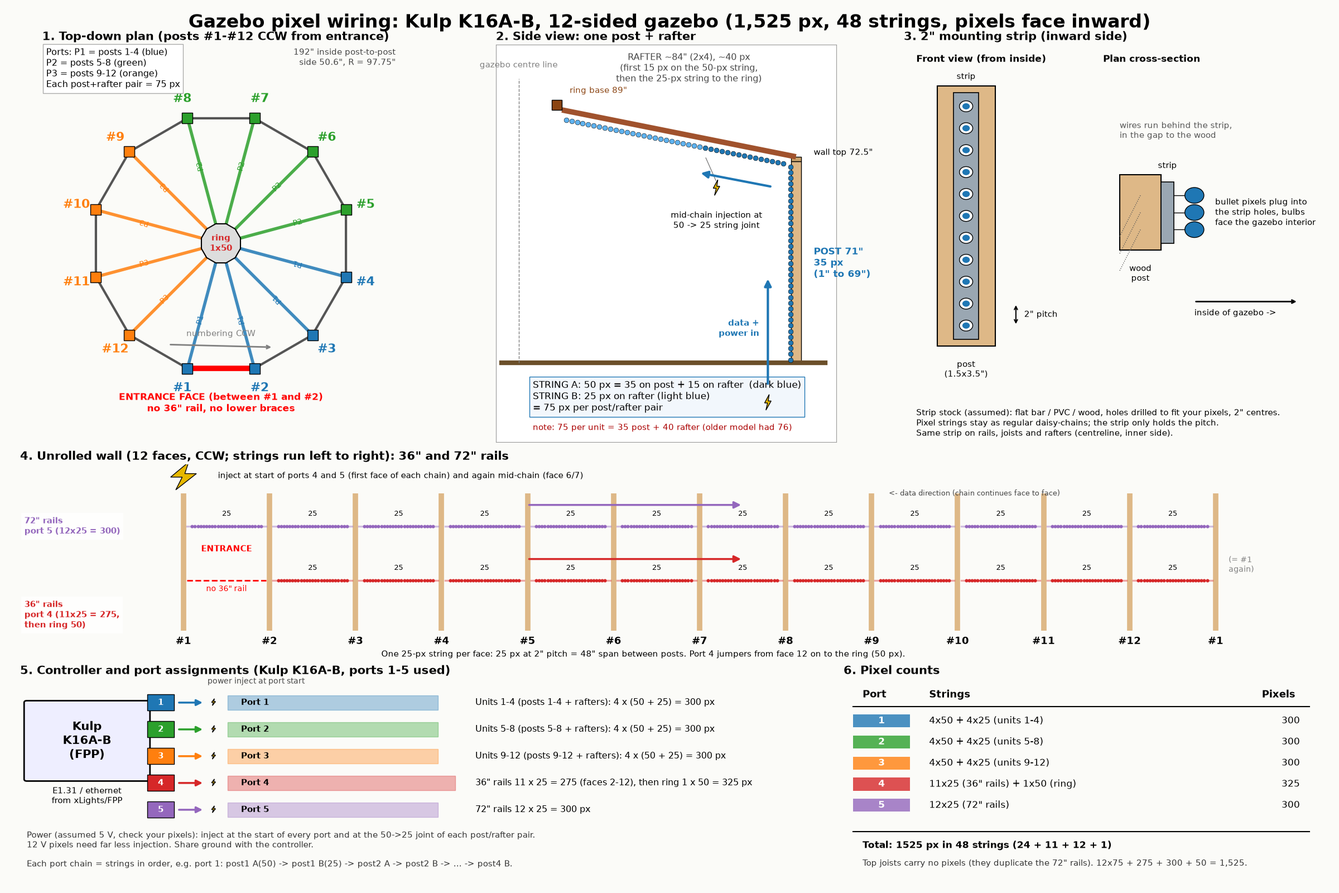
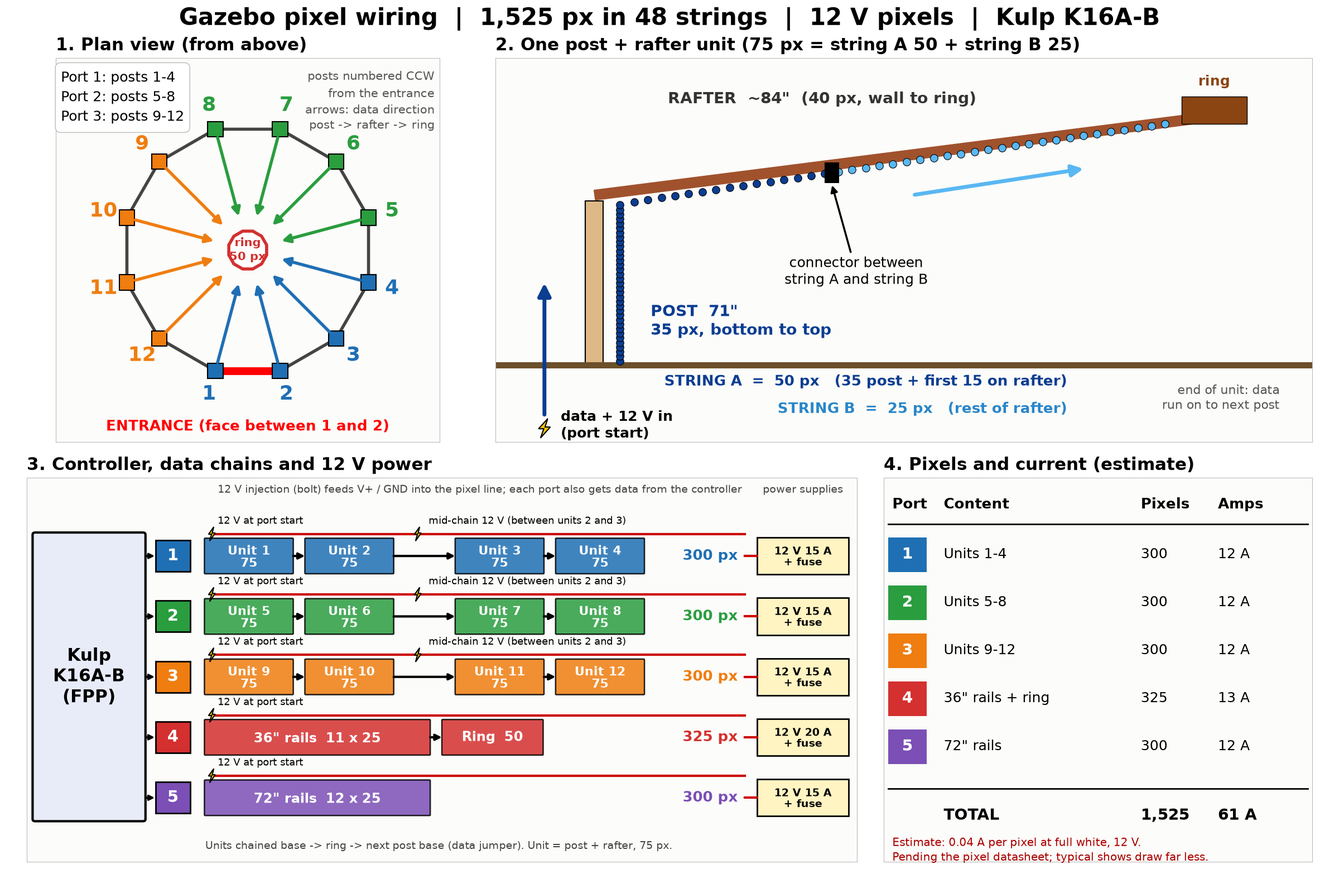
Redo wiring diagram (12 V, power plan); update wiring docs

diff --git a/scripts/wiring_diagram.py b/scripts/wiring_diagram.py
@@ -1,164 +1,132 @@
-import numpy as np, matplotlib
+import numpy as np, matplotlib, os
 matplotlib.use('Agg')
 import matplotlib.pyplot as plt
 from matplotlib.patches import Rectangle, FancyBboxPatch, Polygon, Circle, FancyArrowPatch
-PC={1:'#1f77b4',2:'#2ca02c',3:'#ff7f0e',4:'#d62728',5:'#9467bd',6:'#17becf'}
-BG='#fbfbf8'
+C={1:'#1f6fb4',2:'#2a9d3f',3:'#ef7d10',4:'#d3302f',5:'#7b4fb5'}
+BG='#ffffff'; FS=17
 fig=plt.figure(figsize=(24,16),dpi=100,facecolor=BG)
-def panel(rect,title):
-    ax=fig.add_axes(rect,facecolor='white');ax.set_title(title,fontsize=15,fontweight='bold',loc='left')
-    for s in ax.spines.values():s.set_color('#999')
+def panel(rect,title,frame=True):
+    ax=fig.add_axes(rect,facecolor='#fcfcfa');ax.set_title(title,fontsize=22,fontweight='bold',loc='left',pad=10)
+    ax.set_xticks([]);ax.set_yticks([])
+    for s in ax.spines.values():s.set_color('#bbb');s.set_visible(frame)
     return ax
-def arrow(ax,a,b,c='k',lw=2,ms=18):
-    ax.add_patch(FancyArrowPatch(a,b,arrowstyle='-|>',mutation_scale=ms,color=c,lw=lw,zorder=6))
-def bolt(ax,x,y,s=1.0,c='#e6b800'):
-    ax.add_patch(Polygon([[x+.2*s,y+1.2*s],[x-.5*s,y-.1*s],[x-.05*s,y-.1*s],[x-.3*s,y-1.2*s],[x+.5*s,y+.2*s],[x+.05*s,y+.2*s]],fc=c,ec='k',lw=1,zorder=8))
-fig.suptitle('Gazebo pixel wiring: Kulp K16A-B, 12-sided gazebo (1,525 px, 48 strings, pixels face inward)',fontsize=24,fontweight='bold',y=0.985)
+def arr(ax,a,b,c='k',lw=3.5,ms=28):
+    ax.add_patch(FancyArrowPatch(a,b,arrowstyle='-|>',mutation_scale=ms,color=c,lw=lw,zorder=7,shrinkA=0,shrinkB=0))
+def bolt(ax,x,y,s=1.0):
+    ax.add_patch(Polygon([[x+.25*s,y+1.1*s],[x-.45*s,y-.05*s],[x-.05*s,y-.05*s],[x-.3*s,y-1.1*s],[x+.45*s,y+.15*s],[x+.05*s,y+.15*s]],fc='#f5c400',ec='k',lw=1.5,zorder=9))
+fig.text(0.5,0.972,'Gazebo pixel wiring  |  1,525 px in 48 strings  |  12 V pixels  |  Kulp K16A-B',ha='center',fontsize=30,fontweight='bold')
 
-# ---------- plan ----------
-ax=panel([0.015,0.505,0.30,0.445],'1. Top-down plan (posts #1-#12 CCW from entrance)')
-ax.set_aspect('equal');ax.set_xlim(-135,135);ax.set_ylim(-150,150);ax.axis('off')
+# ===== 1. plan =====
+ax=panel([0.02,0.505,0.33,0.43],'1. Plan view (from above)')
+ax.set_aspect('equal');ax.set_xlim(-150,150);ax.set_ylim(-150,150)
 R=97.75;ang=np.radians(-105+30*np.arange(12));P=np.c_[R*np.cos(ang),R*np.sin(ang)]
-ax.add_patch(Polygon(P,fill=False,ec='#555',lw=3))
-ax.add_patch(Polygon(np.c_[15.27*np.cos(ang),15.27*np.sin(ang)],fc='#ddd',ec='k',lw=1.5,zorder=3))
-ax.text(0,0,'ring\n1x50',ha='center',va='center',fontsize=11,color=PC[4],fontweight='bold',zorder=5)
+ax.add_patch(Polygon(P,fill=False,ec='#444',lw=4,zorder=2))
+ax.plot([P[0][0],P[1][0]],[P[0][1],P[1][1]],color='red',lw=10,solid_capstyle='butt',zorder=3)
+rin=15.3
 for k in range(12):
-    port=1+k//4
-    ax.plot([P[k][0],15.27*np.cos(ang[k])],[P[k][1],15.27*np.sin(ang[k])],color=PC[port],lw=4,alpha=.85,zorder=2)
-    ax.add_patch(Rectangle((P[k][0]-4,P[k][1]-4),8,8,fc=PC[port],ec='k',zorder=5))
-    r=np.array([np.cos(ang[k]),np.sin(ang[k])])
-    ax.text(*(r*113),f'#{k+1}',ha='center',va='center',fontsize=16,fontweight='bold',color=PC[port])
-    ax.text(*(r*60),f'P{port}',ha='center',va='center',fontsize=10,color=PC[port],rotation=np.degrees(ang[k])%180-(90 if False else 0))
-# entrance
-ax.plot([P[0][0],P[1][0]],[P[0][1],P[1][1]],color='red',lw=7,solid_capstyle='butt',zorder=4)
-ax.text(0,-112,'ENTRANCE FACE (between #1 and #2)\nno 36" rail, no lower braces',ha='center',va='top',fontsize=12,color='red',fontweight='bold')
-ax.annotate('',xy=(P[1][0]+14,P[1][1]+16),xytext=(P[0][0]-14,P[0][1]+18),arrowprops=dict(arrowstyle='->',color='gray',lw=2,connectionstyle='arc3,rad=-0.0'))
-ax.text(0,-70,'numbering CCW',ha='center',fontsize=11,color='gray')
-ax.text(-132,148,'Ports: P1 = posts 1-4 (blue)\nP2 = posts 5-8 (green)\nP3 = posts 9-12 (orange)\nEach post+rafter pair = 75 px',fontsize=11.5,va='top',bbox=dict(fc='white',ec='#aaa'))
-ax.text(132,148,'192" inside post-to-post\nside 50.6", R = 97.75"',fontsize=11,ha='right',va='top',color='#444')
+    port=1+k//4;r=np.array([np.cos(ang[k]),np.sin(ang[k])])
+    a=P[k]*0.93;b=r*(rin+12)
+    arr(ax,a,b,C[port],4,22)
+    ax.add_patch(Rectangle((P[k][0]-6,P[k][1]-6),12,12,fc=C[port],ec='k',lw=1.5,zorder=5))
+    ax.text(*(r*(R+19)),f'{k+1}',ha='center',va='center',fontsize=26,fontweight='bold',color=C[port])
+ax.add_patch(Polygon(np.c_[rin*np.cos(ang),rin*np.sin(ang)],fc='white',ec=C[4],lw=4,zorder=6))
+ax.text(0,0,'ring\n50 px',ha='center',va='center',fontsize=15,fontweight='bold',color=C[4],zorder=8)
+ax.text(0,-138,'ENTRANCE (face between 1 and 2)',ha='center',va='center',fontsize=19,color='red',fontweight='bold')
+ax.text(-146,142,'Port 1: posts 1-4\nPort 2: posts 5-8\nPort 3: posts 9-12',fontsize=18,va='top',linespacing=1.4,
+        bbox=dict(fc='white',ec='#bbb',boxstyle='round,pad=0.4'))
+for p,(x,y) in zip((1,2,3),((-139,125),(-139,108),(-139,91))):pass
+ax.text(146,142,'posts numbered CCW\nfrom the entrance\narrows: data direction\npost -> rafter -> ring',fontsize=15,va='top',ha='right',color='#555',linespacing=1.4)
 
-# ---------- elevation of one post + rafter ----------
-ax=panel([0.335,0.505,0.325,0.445],'2. Side view: one post + rafter')
-ax.set_xlim(-8,112);ax.set_ylim(-28,112);ax.set_aspect('equal');ax.set_xticks([]);ax.set_yticks([])
-ax.plot([-6,108],[0,0],color='#6b4f2a',lw=6)
-ax.add_patch(Rectangle((97.75-1.75,0),3.5,71,fc='#deb887',ec='k'))
-ax.add_patch(Rectangle((97.75-1.75,71),3.5,1.5,fc='#c9a26b',ec='k'))
-ax.plot([97.75,15.27],[72.5,89],color='#a0522d',lw=7,solid_capstyle='butt',zorder=1)
-ax.add_patch(Rectangle((11.65,89),3.62,3.5,fc='#8b4513',ec='k'))
-ax.plot([0,0],[0,100],'--',color='gray',lw=1);ax.text(0,104,'gazebo centre line',ha='center',fontsize=11,color='gray')
-# pixels (inward side)
-xp=97.75-1.9
-c1='#1f77b4';c2='#5fb3f0'
-zs=1+2*np.arange(35)
-ax.scatter([xp]*35,zs,s=40,c=c1,zorder=7,edgecolors='k',linewidths=.4)
-t=np.array([97.75,72.5])-np.array([97.75,72.5]);d=np.array([15.27-97.75,16.5]);L=np.linalg.norm(d);d/=L;nrm=np.array([-d[1],d[0]])  # normal pointing... down/in
-nrm=-nrm if nrm[1]>0 else nrm
-pts=[np.array([97.75,72.5])+d*(4+2*i)+nrm*3.2 for i in range(40)]
-pts=np.array(pts)
-ax.scatter(pts[:15,0],pts[:15,1],s=40,c=c1,zorder=7,edgecolors='k',linewidths=.4)
-ax.scatter(pts[15:,0],pts[15:,1],s=40,c=c2,zorder=7,edgecolors='k',linewidths=.4)
-# data arrows
-arrow(ax,(xp-8,-8),(xp-8,30),c1,3);arrow(ax,tuple(pts[2]+[0,-9]),tuple(pts[12]+[-6,-8]),c1,3)
-ax.text(xp-11,12,'data +\npower in',ha='right',va='center',fontsize=11,color=c1,fontweight='bold',rotation=0)
-ax.text(104,35,'POST 71"\n35 px\n(1" to 69")',fontsize=12,va='center',ha='left',color=c1,fontweight='bold')
-ax.text(60,98,'RAFTER ~84" (2x4), ~40 px\n(first 15 px on the 50-px string,\nthen the 25-px string to the ring)',fontsize=11.5,ha='center',va='bottom',color='#444')
-ax.text(18,95,'ring base 89"',fontsize=10.5,ha='left',color='#8b4513')
-ax.text(104,72.5,'wall top 72.5"',fontsize=10.5,ha='left',va='bottom')
-# injection
-bolt(ax,xp-8,-14,2.3);ax.text(xp-14,-14,'inject @ port start',fontsize=11,ha='right',va='center')
-j=pts[14]+[0,0];bolt(ax,j[0]+4,j[1]-14,2.3);ax.annotate('',xy=j+[0,-3],xytext=(j[0]+4,j[1]-12),arrowprops=dict(arrowstyle='-',color='gray'))
-ax.text(j[0]+4,j[1]-22,'mid-chain injection at\n50 -> 25 string joint',fontsize=11,ha='center',va='top')
-# string brackets
-ax.text(100,19,'',fontsize=1)
-ax.text(5,-12,'STRING A: 50 px = 35 on post + 15 on rafter  (dark blue)\nSTRING B: 25 px on rafter (light blue)\n= 75 px per post/rafter pair',fontsize=12,ha='left',va='center',bbox=dict(fc='#f2f7fc',ec=c1))
-ax.text(5,-23,'note: 75 per unit = 35 post + 40 rafter (older model had 76)',fontsize=10.5,ha='left',va='center',color='#a00')
-ax.set_ylim(-28,112)
+# ===== 2. one unit =====
+ax=panel([0.37,0.505,0.61,0.43],'2. One post + rafter unit (75 px = string A 50 + string B 25)')
+ax.set_xlim(0,100);ax.set_ylim(-14,56)
+ax.plot([0,100],[0,0],color='#6b4f2a',lw=8)
+ax.add_patch(Rectangle((11,0),2.2,30,fc='#deb887',ec='k',lw=1.5,zorder=1))
+ax.plot([12.1,86],[31,45],color='#a0522d',lw=14,solid_capstyle='butt',zorder=1)
+ax.add_patch(Rectangle((84,44),8,5,fc='#8b4513',ec='k',zorder=1));ax.text(88,51,'ring',ha='center',fontsize=18,fontweight='bold',color='#8b4513')
+cA='#0b3d91';cB='#59b7f2'
+zs=np.linspace(0.8,29.2,35);ax.scatter(np.full(35,15.2),zs,s=95,c=cA,edgecolors='k',linewidths=.8,zorder=6)
+t=np.linspace(0,1,40);rx=17+t*(82-17);ry=31.3+t*(45.5-31.3)-1.5
+ax.scatter(rx[:15],ry[:15],s=95,c=cA,edgecolors='k',linewidths=.8,zorder=6)
+ax.scatter(rx[15:],ry[15:],s=95,c=cB,edgecolors='k',linewidths=.8,zorder=6)
+# joint
+jx,jy=(rx[14]+rx[15])/2,(ry[14]+ry[15])/2
+ax.add_patch(Rectangle((jx-.9,jy-1.9),1.8,3.8,fc='k',zorder=8,angle=0))
+ax.annotate('connector between\nstring A and string B',xy=(jx,jy-2),xytext=(jx+3,jy-15),fontsize=18,ha='center',va='top',arrowprops=dict(arrowstyle='-|>',lw=2.5,color='k'))
+# data in
+arr(ax,(6,-9),(6,15),cA,5,34);bolt(ax,6,-11.5,1.6)
+ax.text(8,-11,'data + 12 V in\n(port start)',fontsize=18,va='center',color='k',fontweight='bold')
+arr(ax,(rx[20]+1,ry[20]-6),(rx[33],ry[33]-6),cB,5,30)
+ax.text(19,8,'POST  71"\n35 px, bottom to top',fontsize=20,color=cA,fontweight='bold',va='center')
+ax.text(40,48.5,'RAFTER  ~84"  (40 px, wall to ring)',fontsize=20,color='#333',fontweight='bold',va='center',ha='center')
+# brackets
+ax.text(70,-3,'STRING A  =  50 px   (35 post + first 15 on rafter)',fontsize=19,color=cA,ha='right',va='center',fontweight='bold')
+ax.text(70,-8,'STRING B  =  25 px   (rest of rafter)',fontsize=19,color='#2a86c9',ha='right',va='center',fontweight='bold')
+ax.text(96,-6,'end of unit: data\nrun on to next post',fontsize=16,ha='right',va='center',color='#555')
 
-# ---------- mounting strip ----------
-ax=panel([0.675,0.505,0.31,0.445],'3. 2" mounting strip (inward side)')
-ax.set_xlim(0,100);ax.set_ylim(-16,100);ax.axis('off')
-# front view
-ax.text(3,95,'Front view (from inside)',fontsize=12.5,fontweight='bold')
-ax.add_patch(Rectangle((8,12),14,76,fc='#deb887',ec='k',lw=1.5));ax.text(15,8,'post\n(1.5x3.5")',ha='center',va='top',fontsize=10.5)
-ax.add_patch(Rectangle((12,14),6,72,fc='#9aa7b2',ec='k',lw=1.2));ax.text(15,90,'strip',ha='center',fontsize=10.5)
-for i in range(11):
-    y=18+i*6.4;ax.add_patch(Circle((15,y),1.6,fc='white',ec='k',lw=1));ax.add_patch(Circle((15,y),0.9,fc=PC[1],ec='none'))
-ax.annotate('',xy=(27,18+6.4),xytext=(27,18));ax.annotate('',xy=(27,18),xytext=(27,18+6.4),arrowprops=dict(arrowstyle='<->',lw=1.5))
-ax.text(29,18+3.2,'2" pitch',fontsize=11,va='center')
-# cross-section
-ax.text(48,95,'Plan cross-section',fontsize=12.5,fontweight='bold')
-ax.add_patch(Rectangle((52,40),10,22,fc='#deb887',ec='k',lw=1.5));ax.text(57,36,'wood\npost',ha='center',va='top',fontsize=10.5)
-ax.add_patch(Rectangle((62,42),3,18,fc='#9aa7b2',ec='k',lw=1.2));ax.text(63.5,64,'strip',ha='center',fontsize=10.5)
-for y in (46,51,56):
-    ax.add_patch(Circle((70,y),2.3,fc=PC[1],ec='k',lw=1,zorder=5));ax.plot([65,68],[y,y],color='k',lw=1)
-    ax.plot([57,52],[y,y-12],color='#555',lw=1,ls=':')
-ax.text(75,51,'bullet pixels plug into\nthe strip holes, bulbs\nface the gazebo interior',fontsize=11,va='center')
-ax.annotate('',xy=(95,25),xytext=(70,25),arrowprops=dict(arrowstyle='->',lw=2,color='k'));ax.text(70,21,'inside of gazebo ->',fontsize=11)
-ax.text(52,72,'wires run behind the strip,\nin the gap to the wood',fontsize=10.5,va='bottom',color='#555')
-ax.text(3,-15,'Strip stock (assumed): flat bar / PVC / wood, holes drilled to fit your pixels, 2" centres.\nPixel strings stay as regular daisy-chains; the strip only holds the pitch.\nSame strip on rails, joists and rafters (centreline, inner side).',fontsize=11,va='bottom')
+# ===== 3. controller / chains / power =====
+ax=panel([0.02,0.035,0.62,0.43],'3. Controller, data chains and 12 V power')
+ax.set_xlim(0,100);ax.set_ylim(0,54)
+ax.add_patch(FancyBboxPatch((1,6),13,40,boxstyle='round,pad=0.3',fc='#e8ecf8',ec='k',lw=3))
+ax.text(7.5,26,'Kulp\nK16A-B\n(FPP)',ha='center',va='center',fontsize=22,fontweight='bold')
+rows=[(1,['Unit 1','Unit 2',None,'Unit 3','Unit 4'],'300 px'),(2,['Unit 5','Unit 6',None,'Unit 7','Unit 8'],'300 px'),(3,['Unit 9','Unit 10',None,'Unit 11','Unit 12'],'300 px'),
+      (4,['36" rails  11 x 25','Ring  50'],'325 px'),(5,['72" rails  12 x 25'],'300 px')]
+yy=[43,34.5,26,17.5,9]
+for (p,blocks,tot),y in zip(rows,yy):
+    ax.add_patch(Rectangle((15.5,y-2.2),4.2,4.4,fc=C[p],ec='k',lw=2,zorder=4));ax.text(17.6,y,str(p),color='white',ha='center',va='center',fontsize=21,fontweight='bold',zorder=5)
+    arr(ax,(14.4,y),(15.4,y),'k',2.5,14)
+    x=21.5
+    if p<=3:
+        wid=[10.5,10.5,0,10.5,10.5];gaps=[1.6,3.2,0,1.6,0]
+    elif p==4:
+        wid=[27,12];gaps=[1.6,0]
+    else:
+        wid=[27];gaps=[0]
+    xs=[]
+    for b,w in zip(blocks,wid):
+        if b is None: x+=6.0;continue
+        ax.add_patch(FancyBboxPatch((x,y-2.4),w,4.8,boxstyle='round,pad=0.1',fc=C[p],ec='k',lw=1.8,alpha=.85))
+        ax.text(x+w/2,y,b if p>3 else b+'\n75',ha='center',va='center',fontsize=16 if p<=3 else 17,color='white',fontweight='bold',linespacing=1.0)
+        xs.append((x,w));x+=w+1.6
+    # arrows between blocks
+    for (x0,w0),(x1,_) in zip(xs[:-1],xs[1:]):
+        arr(ax,(x0+w0+0.1,y),(x1-0.1,y),'k',3,16)
+    ax.text(79,y,tot,fontsize=19,va='center',fontweight='bold',color=C[p])
+    # power
+    sx=21.5
+    ax.plot([sx+0.8,86.5],[y+3.1,y+3.1],color='#c00',lw=3,zorder=3)
+    bolt(ax,sx+0.8,y+3.1,0.9)
+    if p<=3:
+        mx=xs[1][0]+xs[1][1]+3.0;bolt(ax,mx,y+3.1,0.9)
+        ax.text(mx+1.3,y+4.9,'mid-chain 12 V (between units 2 and 3)',fontsize=13,va='center')
+        ax.text(sx+1.5,y+4.9,'12 V at port start',fontsize=13,va='center')
+    else:
+        ax.text(sx+1.5,y+4.9,'12 V at port start',fontsize=13,va='center')
+ax.text(23,52.3,'12 V injection (bolt) feeds V+ / GND into the pixel line; each port also gets data from the controller',fontsize=14,color='#444',va='center')
+ax.text(21.5,2.2,'Units chained base -> ring -> next post base (data jumper). Unit = post + rafter, 75 px.',fontsize=14,color='#444',va='center')
+# PSU column
+for (p,y),lab in zip(zip((1,2,3,4,5),yy),('12 V 15 A\n+ fuse','12 V 15 A\n+ fuse','12 V 15 A\n+ fuse','12 V 20 A\n+ fuse','12 V 15 A\n+ fuse')):
+    ax.add_patch(Rectangle((88,y-2.6),11,5.2,fc='#fff4c2',ec='k',lw=2))
+    ax.text(93.5,y,lab,ha='center',va='center',fontsize=14,fontweight='bold',linespacing=1.0)
+    ax.plot([88,86.5],[y,y],color='#c00',lw=3);
+ax.text(93.5,52.3,'power supplies',fontsize=14,ha='center',color='#444',va='center')
 
-# ---------- unrolled ----------
-ax=panel([0.015,0.255,0.97,0.225],'4. Unrolled wall (12 faces, CCW; strings run left to right): 36" and 72" rails')
-ax.set_xlim(-1.9,13.2);ax.set_ylim(-0.9,4.3);ax.axis('off')
-y72,y36=2.7,1.3
-for k in range(13):
-    ax.plot([k,k],[0,3.55],color='#deb887',lw=7,solid_capstyle='butt');ax.text(k,-0.15,f'#{k%12+1}',ha='center',va='top',fontsize=13,fontweight='bold')
-ax.text(12.15,1.7,'(= #1\nagain)',fontsize=10,va='center',color='gray')
-for f in range(12):
-    x0,x1=f+0.04,f+0.96
-    def dots(y,col,n=25):
-        xs=np.linspace(x0+.06,x1-.06,n);ax.scatter(xs,[y]*n,s=11,c=col,zorder=5)
-        ax.plot([x0,x1],[y,y],color=col,lw=2.4,alpha=.4)
-    dots(y72,PC[5])
-    if f==0:
-        ax.plot([x0,x1],[y36,y36],color='red',lw=2,ls='--');ax.text(.5,y36-0.28,'no 36" rail',ha='center',fontsize=10,color='red')
-        ax.text(.5,2.05,'ENTRANCE',ha='center',fontsize=11,color='red',fontweight='bold')
-    else:dots(y36,PC[4])
-    ax.text(f+.5,y72+.27,'25',ha='center',fontsize=9)
-    if f:ax.text(f+.5,y36+.27,'25',ha='center',fontsize=9)
-ax.text(-1.85,y72,'72" rails\nport 5 (12x25 = 300)',fontsize=11,color=PC[5],va='center',ha='left',fontweight='bold',bbox=dict(fc='white',ec='none',alpha=.8))
-ax.text(-1.85,y36-0.5,'36" rails\nport 4 (11x25 = 275,\nthen ring 50)',fontsize=11,color=PC[4],va='top',ha='left',fontweight='bold',bbox=dict(fc='white',ec='none',alpha=.8))
-for y,c in((y72+.55,PC[5]),(y36+.55,PC[4])):arrow(ax,(4.0,y),(6.5,y),c,2.5)
-ax.text(8.2,y72+.85,'<- data direction (chain continues face to face)',ha='left',va='center',fontsize=9.5,color='#444')
-ax.text(2.3,-.62,'One 25-px string per face: 25 px at 2" pitch = 48" span between posts. Port 4 jumpers from face 12 on to the ring (50 px).',fontsize=10.5,ha='left',va='center')
-bolt(ax,0.0,4.0,0.3)
-ax.text(0.4,4.0,'inject at start of ports 4 and 5 (first face of each chain) and again mid-chain (face 6/7)',fontsize=10.5,va='center')
-
-# ---------- controller ----------
-ax=panel([0.015,0.015,0.60,0.225],'5. Controller and port assignments (Kulp K16A-B, ports 1-5 used)')
-ax.set_xlim(0,120);ax.set_ylim(-2,40);ax.axis('off')
-ax.add_patch(FancyBboxPatch((1,19),18,16,boxstyle='round,pad=0.4',fc='#eef',ec='k',lw=2))
-ax.text(10,27,'Kulp\nK16A-B\n(FPP)',ha='center',va='center',fontsize=15,fontweight='bold')
-ax.text(10,17.5,'E1.31 / ethernet\nfrom xLights/FPP',ha='center',va='top',fontsize=10.5)
-rows=[(1,'Units 1-4 (posts 1-4 + rafters): 4 x (50 + 25) = 300 px',300),(2,'Units 5-8 (posts 5-8 + rafters): 4 x (50 + 25) = 300 px',300),(3,'Units 9-12 (posts 9-12 + rafters): 4 x (50 + 25) = 300 px',300),
-      (4,'36" rails 11 x 25 = 275 (faces 2-12), then ring 1 x 50 = 325 px',325),(5,'72" rails 12 x 25 = 300 px',300)]
-for i,(p,txt,n) in enumerate(rows):
-    y=35-i*5.6
-    ax.add_patch(Rectangle((19,y-1.7),4,3.4,fc=PC[p],ec='k'));ax.text(21,y,f'{p}',color='white',ha='center',va='center',fontsize=11,fontweight='bold')
-    arrow(ax,(23.5,y),(27.5,y),PC[p],2.5,16)
-    bar=n/325*34
-    ax.add_patch(Rectangle((31,y-1.5),bar,3,fc=PC[p],alpha=.35,ec=PC[p]))
-    bolt(ax,28.9,y+0.1,0.6)
-    ax.text(33,y,f'Port {p}',fontsize=11,va='center',fontweight='bold',color='k')
-    ax.text(68,y,txt,fontsize=11.5,va='center')
-ax.text(28,38.6,'power inject at port start',fontsize=10,va='bottom',color='#444')
-ax.text(1,6.2,'Power (assumed 5 V, check your pixels): inject at the start of every port and at the 50->25 joint of each post/rafter pair.\n12 V pixels need far less injection. Share ground with the controller.',fontsize=10.5,va='center',color='#333')
-ax.text(1,1.2,'Each port chain = strings in order, e.g. port 1: post1 A(50) -> post1 B(25) -> post2 A -> post2 B -> ... -> post4 B.',fontsize=10.5,va='center',color='#333')
-
-# ---------- table ----------
-ax=panel([0.63,0.015,0.355,0.225],'6. Pixel counts')
-ax.axis('off');ax.set_xlim(0,100);ax.set_ylim(0,100)
-hdr=['Port','Strings','Pixels']
-data=[('1','4x50 + 4x25 (units 1-4)',300),('2','4x50 + 4x25 (units 5-8)',300),('3','4x50 + 4x25 (units 9-12)',300),('4','11x25 (36" rails) + 1x50 (ring)',325),('5','12x25 (72" rails)',300)]
-for x,h in zip((4,18,88),hdr):ax.text(x,92,h,fontsize=13,fontweight='bold',va='center')
-ax.plot([2,98],[86,86],color='k')
-for i,(p,s,n) in enumerate(data):
-    y=79-i*10.5
-    ax.add_patch(Rectangle((2,y-3.2),12,6.4,fc=PC[int(p)],ec='none',alpha=.8));ax.text(8,y,p,ha='center',va='center',fontsize=12,color='white',fontweight='bold')
-    ax.text(18,y,s,fontsize=12,va='center');ax.text(96,y,str(n),fontsize=12,va='center',ha='right')
-ax.plot([2,98],[24,24],color='k')
+# ===== 4. table =====
+ax=panel([0.66,0.035,0.32,0.43],'4. Pixels and current (estimate)')
+ax.set_xlim(0,100);ax.set_ylim(0,100)
+cols=[(2,'Port'),(14,'Content'),(60,'Pixels'),(78,'Amps')]
+for x,h in cols:ax.text(x,93,h,fontsize=19,fontweight='bold',va='center')
+ax.plot([1,99],[88,88],color='k',lw=2)
+data=[(1,'Units 1-4',300),(2,'Units 5-8',300),(3,'Units 9-12',300),(4,'36" rails + ring',325),(5,'72" rails',300)]
+for i,(p,c,n) in enumerate(data):
+    y=80-i*12.5
+    ax.add_patch(Rectangle((1,y-4.5),9,9,fc=C[p],ec='none'));ax.text(5.5,y,str(p),color='white',ha='center',va='center',fontsize=20,fontweight='bold')
+    ax.text(14,y,c,fontsize=18,va='center');ax.text(60,y,str(n),fontsize=18,va='center')
+    ax.text(78,y,f'{n*0.04:.0f} A',fontsize=18,va='center')
+ax.plot([1,99],[19,19],color='k',lw=2)
 tot=sum(d[2] for d in data)
-ax.text(4,17,f'Total: {tot} px in 48 strings (24 + 11 + 12 + 1)',fontsize=12.5,fontweight='bold',va='center')
-ax.text(4,8,'Top joists carry no pixels (they duplicate the 72" rails). 12x75 + 275 + 300 + 50 = 1,525.',fontsize=10.5,color='#333',va='center')
-import os;os.makedirs('docs',exist_ok=True);plt.savefig('docs/wiring_diagram.png',dpi=100,facecolor=BG)
-print(tot)
+ax.text(14,12,'TOTAL',fontsize=20,fontweight='bold',va='center');ax.text(60,12,f'{tot:,}',fontsize=20,fontweight='bold',va='center');ax.text(78,12,f'{tot*0.04:.0f} A',fontsize=20,fontweight='bold',va='center')
+ax.text(2,3,'Estimate: 0.04 A per pixel at full white, 12 V.\nPending the pixel datasheet; typical shows draw far less.',fontsize=14.5,va='center',color='#a00',linespacing=1.3)
+os.makedirs('docs',exist_ok=True) if os.path.basename(os.getcwd())=='gazebo-xlights-repo' else None
+out='docs/wiring_diagram.png' if os.path.basename(os.getcwd())=='gazebo-xlights-repo' else 'wiring_diagram.png'
+plt.savefig(out,dpi=100,facecolor=BG);print(out,tot,tot*0.04)

diff --git a/docs/wiring.md b/docs/wiring.md
@@ -1,39 +1,38 @@
-# Wiring (Kulp K16A-B running FPP)
+# Wiring (Kulp K16A-B running FPP, 12 V pixels)
 
 ![wiring diagram](wiring_diagram.png)
 
-**Untested plan.** Totals: **1,525 pixels in 48 strings**, 4,575 channels. No pixels on braces or top joists.
+**Untested plan.** 1,525 pixels in 48 strings, 4,575 channels. No pixels on braces or top joists. Regenerate the diagram with `python scripts/wiring_diagram.py` from the repo root.
 
 ## Strings
 | Item | Strings | Pixels |
 |---|---|---|
-| Post + rafter unit (x12) | 1 x 50 + 1 x 25 each | 75 each = 900 |
-| 36" rails (faces 2-12, none on entrance) | 11 x 25 | 275 |
+| Post + rafter unit (x12) | 1 x 50 (string A) + 1 x 25 (string B) | 75 each = 900 |
+| 36" rails (faces 2-12, none on the entrance face) | 11 x 25 | 275 |
 | 72" rails (faces 1-12) | 12 x 25 | 300 |
 | Ring | 1 x 50 | 50 |
 | **Total** | **48 strings** (24 + 11 + 12 + 1) | **1,525** |
 
-A post+rafter unit: the 50-px string goes up the post (35 px at 2", bottom 1" to 69") and continues 15 px along the rafter; the 25-px string finishes the rafter (25 px) to the ring. That is 35 post + 40 rafter = 75 px. The rafter is about 84", so 40 px at 2" covers about 80". (An earlier model had 41 rafter pixels = 76 per unit; the model is now regenerated at 75.)
+One unit: string A (50 px) goes up the post (35 px, 1" to 69") and continues 15 px along the rafter; a connector joins string B (25 px), which finishes the rafter (~84", 40 px total) to the ring. Posts are numbered 1-12 counterclockwise from the entrance; the entrance face is between posts 1 and 2.
 
-## Ports
-| Port | Chain order | Pixels |
-|---|---|---|
-| 1 | Unit 1 (A50, B25) -> unit 2 -> unit 3 -> unit 4 (posts 1-4) | 300 |
-| 2 | Units 5-8 (posts 5-8) | 300 |
-| 3 | Units 9-12 (posts 9-12) | 300 |
-| 4 | 36" rails faces 2-12 (11 x 25), then the ring (50) | 325 |
-| 5 | 72" rails faces 1-12 (12 x 25) | 300 |
+## Ports, chains and power
+| Port | Chain | Pixels | Est. current | Suggested supply |
+|---|---|---|---|---|
+| 1 | Units 1, 2, [12 V], 3, 4 | 300 | 12 A | 12 V 15 A + fuse |
+| 2 | Units 5, 6, [12 V], 7, 8 | 300 | 12 A | 12 V 15 A + fuse |
+| 3 | Units 9, 10, [12 V], 11, 12 | 300 | 12 A | 12 V 15 A + fuse |
+| 4 | 36" rails (11 x 25), then ring (50) | 325 | 13 A | 12 V 20 A + fuse |
+| 5 | 72" rails (12 x 25) | 300 | 12 A | 12 V 15 A + fuse |
+| **Total** | | **1,525** | **~61 A** | |
 
-Posts are numbered 1-12 counterclockwise from the entrance; the entrance face is between posts 1 and 2. The ring is on port 4 after the rails (325 px); if you want every port at 300 or less, move the ring to its own port 6. Port 4 jumpers from the last 36" rail (face 12) up to the ring. The K16A-B has more ports than this uses; check its current spec for per-port limits.
-
-Node order in the xLights model follows this chain exactly (nodes 1-900 units, 901-1175 36" rails, 1176-1225 ring, 1226-1525 72" rails), so each port is one contiguous channel range.
+- **Current is an estimate:** 0.04 A per pixel at full white, 12 V, pending the pixel datasheet. Typical sequences draw much less than full white.
+- **Injection:** 12 V (V+ and GND) injected at the start of every port, and mid-chain on ports 1-3 between units 2 and 3 (about 6 A per feed on those ports). Ports 4 and 5 carry 12-13 A from one feed: use heavy wire (e.g. 14 AWG) or add a mid-chain injection (not drawn).
+- **Supplies (options):** (a) one supply per port as above, each fused; or (b) two or three 12 V 30 A supplies (a 2 x 30 A pair has about 1 A of headroom at the full-white estimate, so 3 x 30 A is safer) feeding a fused distribution block. Tie all grounds together and to the controller.
+- **Data:** each port's data runs base to ring within a unit, then a data jumper from the unit's ring end to the next unit's post base. Alternative (not modeled): alternate unit direction so ring ends meet at the ring; that needs the xLights node order reversed for those units.
+- The node order in the xLights model follows this chain (nodes 1-900 units, 901-1175 36" rails, 1176-1225 ring, 1226-1525 72" rails), so every port is one contiguous channel range. The K16A-B has more ports than are used; check its current spec for per-port limits and whether it accepts 12 V directly for its own power.
 
 ## Mounting: 2" pitch strips
-Pixels plug into mounting strips (flat bar, PVC or wood) with holes drilled at 2" centres, fixed on the inward-facing side of each post, rail and rafter, so every bulb faces the interior. The strips only hold the pitch; wiring stays a normal daisy chain. The hole size depends on your pixels (for example 12 mm bullet nodes). The strip stock and hole size are assumptions to confirm against your hardware.
-
-## Power
-Assumed 5 V pixels (check yours). Inject power at the start of every port and at the 50 -> 25 string joint of each post/rafter unit (the diagram marks both). 12 V pixels need much less injection. Share ground with the controller.
+Pixels plug into mounting strips (flat bar, PVC or wood) with holes at 2" centres, fixed on the inward-facing side of each post, rail and rafter, so every bulb faces the interior. The strips only hold the pitch; wiring stays a normal daisy chain. Strip stock and hole size depend on your pixels (assumption, confirm against hardware).
 
 ## Number checks
-- 12 x 75 = 900, + 275 + 300 + 50 = **1,525**.
-- An earlier request quoted "~2075" and, later, "1,825" (with 12 joist strings); with the joists dropped the sum is 1,525. The 48-string count is my arithmetic (24 + 11 + 12 + 1); a quoted "61 strings" does not match this layout.
+12 x 75 = 900, + 275 + 300 + 50 = 1,525. 1,525 x 0.04 A = 61 A. The string count is 24 + 11 + 12 + 1 = 48.

diff --git a/README.md b/README.md
@@ -60,7 +60,7 @@ Full diagram: [`docs/wiring_diagram.png`](docs/wiring_diagram.png), notes in [`d
 
 - Totals: 1,525 pixels, 48 strings (24 post/rafter + 11 + 12 + 1), 4,575 channels. Over E1.31 that is 9 universes at 170 pixels (8 full + 165 px).
 - The K16A-B has 16 ports (check the spec sheet); only 5 are used. Port 4 carries 325 px; if you prefer all ports at 300 or less, put the ring on its own port 6.
-- Power: pixel voltage assumed 5 V (check yours). Inject at the start of every port and at the 50 -> 25 string joint of each post/rafter unit; 12 V pixels need much less.
+- Power: **12 V pixels**. Estimated ~0.04 A per pixel at full white (pending the datasheet): ~12 A per 300-px port, ~13 A on port 4, **~61 A total**. Suggested: one 12 V supply per port (15 A for ports 1, 2, 3, 5; 20 A for port 4), each with a fuse, or two or three 12 V 30 A supplies with a fused distribution block. Inject 12 V at the start of every port, and mid-chain on ports 1-3 between units 2 and 3. Ports 4 and 5 are 12-13 A from a single start injection, so use heavy wire (e.g. 14 AWG) or add a mid-chain injection there.
 - Pixels plug into 2"-pitch mounting strips on the inward side of the posts, rails and rafters (see the diagram, panel 3).
 - In FPP, set the pixel outputs (Channel Outputs) per port above, start channel 1, same order. The `.fseq` files assume channel 1 = pixel 1 red.
 
